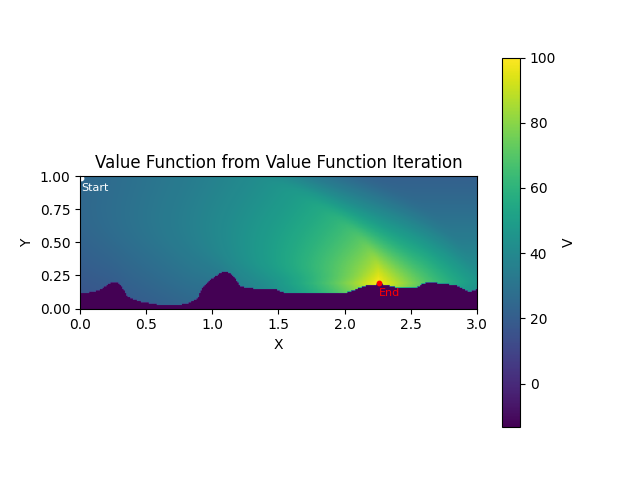
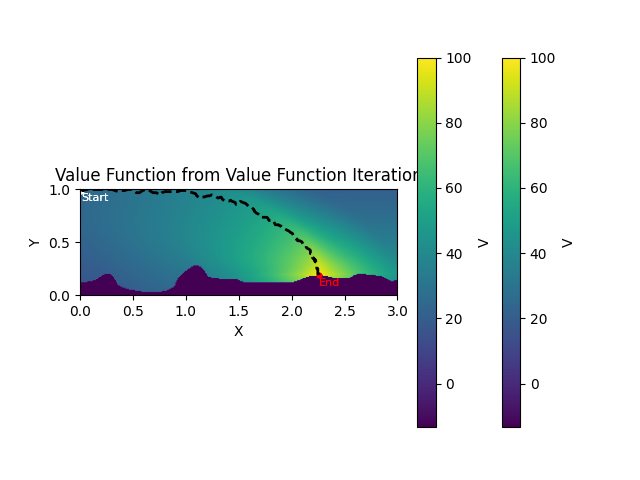
Updates for simulating trajectories.

Changed region(s): [[0.0625, 0.0938, 0.7812, 0.9062], [0.0312, 0.5, 0.125, 0.5312], [0.4062, 0.4375, 0.4375, 0.4688]]

diff --git a/utils.py b/utils.py
@@ -148,6 +148,68 @@ def generate_transition_matrix(T,transition_offsets,action_offsets,T_stat_mean,T
 
     return T
 
+#Function to simulate a group of trajectories and provide output information on how they did
+#Output is a dictionary with all the i,j locations at each time step in the simulation
+def simulate_traj_set(T,transition_offsets,P,n_sims,sim_max,end_location,start_location):
+    #Inputs:
+    # T - Transition matrix of size nx x ny x num_actions x n x n
+    # transition_offsets - offsets for the different components in the transition matrix T - 1D vector, assumes same for i and j
+    # P - Policy action at each point
+    # n_sims - number of simulated trajectories to compute
+    # sim_max - maximum steps in a sim before we give up and say it wasn't going to reach the end
+    # end_location - end_location in i,j
+    # start_location - starting location in i,j
+
+    #Outputs:
+    # n_values - number of steps for each trajectory
+    # traj - dictionary 0-n_sims-1 of the trajectory (i,j) ordered points
+    
+    #Dictionary for the trajectory information
+    trajs={}
+    n_values=np.zeros(n_sims)
+    #I/J offsets for the transition matrices
+    (n_x,n_y,n_a,n1,n2)=T.shape
+    i_offset=np.tile(np.expand_dims(transition_offsets,-1),(1,n2))
+    j_offset=np.tile(np.expand_dims(transition_offsets,0),(n1,1))
+    i_offset=np.reshape(i_offset,n1*n2)
+    j_offset=np.reshape(j_offset,n1*n2)
+    
+    #Type checking
+    P=P.astype('int32')
+    #Loop for all the individual simulations
+    for ind in range(n_sims): 
+        print('Running Trajectory '+ str(ind))
+        #Empty trajectory for now
+        traj=np.zeros((sim_max,2))
+        #Set the starting location
+        traj[0,:]=start_location
+        #Start stepping through the policy
+        for sim_step in range(1,sim_max):
+            #Extract our transition matrix for that state and action
+            ind1=int(traj[sim_step-1,0])
+            ind2=int(traj[sim_step-1,1])
+            T_step=T[ind1,ind2,P[ind1,ind2],:,:]
+            T_step=np.reshape(T_step,n1*n2)
+            #Cumulative sum of probalities - used to determine which we are in
+            csum=np.cumsum(T_step)
+            #Draw random number to determine which transition happened
+            r_samp=np.random.uniform()
+            #State we ended up in
+            state_index=np.where(csum>=r_samp)
+            #New i,j
+            new_i=traj[sim_step-1,0]+i_offset[state_index[0][0]]
+            new_j=traj[sim_step-1,1]+j_offset[state_index[0][0]]
+            #Store the state we ended up in
+            traj[sim_step,0]=new_i
+            traj[sim_step,1]=new_j
+            #See if we are at the end state
+            if new_i==end_location[0] and new_j==end_location[1]:
+                break
+        #Store the trajectory and the number of iterations
+        n_values[ind]=sim_step
+        trajs[ind]=traj[0:sim_step+1,:]
+    
+    return n_values,trajs
 
 ###########################################################################################################
 ##### Old Functions from the old projects

diff --git a/main.py b/main.py
@@ -6,7 +6,7 @@ import time
 import matplotlib.pyplot as plt  
 import numpy as np
 import pickle
-from utils import generate_floor_mask,generate_transition_matrix
+from utils import generate_floor_mask,generate_transition_matrix, simulate_traj_set
 from value_iteration_gs import value_iteration
 
 
@@ -146,7 +146,7 @@ def main():
     log_file=os.getcwd() + '/' + log_file_name
     if not os.path.exists(log_file):
         file=open(log_file,'w')
-        file.write('Filename, Run Time (s)\n')
+        file.write('Filename, Run Time (s), Mean Steps\n')
         file.close()
 
     #Group 2: Generation of a Policy
@@ -154,10 +154,7 @@ def main():
         if rerun_Value:
             #Value iteration Code
             V,P,run_time=value_iteration(R,T,terminal_mask,transition_offsets,floor_mask,end_location,gamma,iter_max,delta_V_end,V_walls)
-            #Update log
-            file=open(log_file,'a')
-            file.write(run_name + ',' + str(run_time) + '\n')
-            file.close()
+
             #Write the outputs
             with open(value_save_file, "wb") as fp:
                 pickle.dump((V,P,run_time), fp)
@@ -185,6 +182,36 @@ def main():
         plt.title('Value Function from Value Function Iteration')
         plt.savefig(value_function_figure)
         #plt.show()
+
+    #Group 3: Trajectory simulations and metrics
+    n_steps,trajs=simulate_traj_set(T,transition_offsets,P,n_sims,sim_max,end_location,start_location)
+    mean_steps=np.mean(n_steps)
+    print('Mean Number of Steps to Goal: '+ str(mean_steps))
+
+    # Plot of the domain results - currently set up to have a value function as the background
+    plt.imshow(V.T, origin="lower",extent=[0,X_max,0,Y_max])
+    cbar=plt.colorbar()
+    plt.xlabel('X')
+    plt.ylabel('Y')
+    cbar.set_label('V')
+    x_end=end_location[0]/(n_x-1)*X_max
+    y_end=end_location[1]/(n_y-1)*Y_max
+    plt.scatter(x_end,y_end,s=10,color='red')
+    plt.text(x_end,y_end-0.1,'End',fontsize=8,color='red')
+    x_start=start_location[0]/(n_x-1)*X_max
+    y_start=start_location[1]/(n_y-1)*Y_max
+    plt.scatter(x_start,y_start,s=10,color='white')
+    plt.text(x_start,y_start-0.1,'Start',fontsize=8,color='white')
+    temp=trajs[0]
+    plt.plot(temp[:,0]/(n_x-1)*X_max,temp[:,1]/(n_y-1)*Y_max,'k--',linewidth=2)
+    plt.title('Value Function from Value Function Iteration')
+    plt.savefig(value_function_figure)
+
+
+    #Update log
+    file=open(log_file,'a')
+    file.write(run_name + ',' + str(run_time) + ',' + str(mean_steps) + '\n')
+    file.close()
 
 #Main Caller    
 if __name__ == '__main__':
